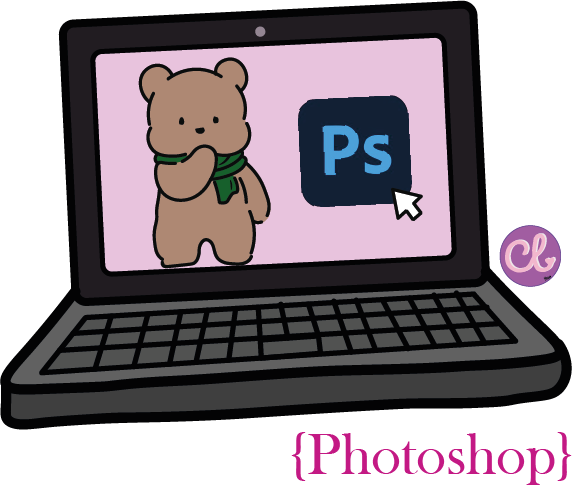
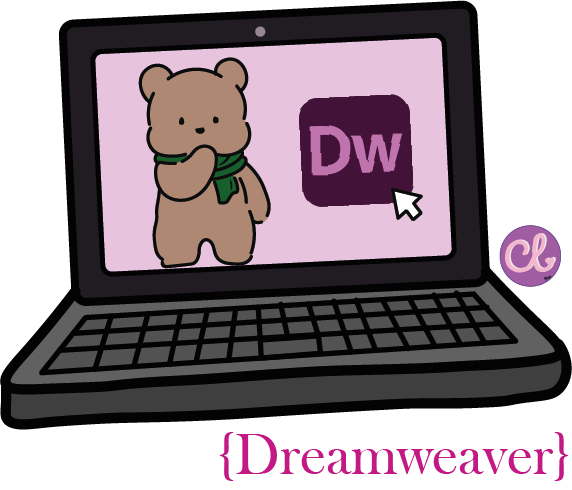
Add files via upload

diff --git a/7. Página personal-Habilidades (Dreamweaver).html b/7. Página personal-Habilidades (Dreamweaver).html
@@ -1,0 +1,284 @@
+<!doctype html>
+<html>
+<head>
+<meta charset="utf-8">
+<title>7. Página personal-Habilidades (Dreamweaver)</title>
+<style type="text/css">
+body {
+    background-image: url(Fondo.png);
+    text-align: center;
+}
+</style>
+<script type="text/javascript">
+function MM_swapImgRestore() { //v3.0
+  var i,x,a=document.MM_sr; for(i=0;a&&i<a.length&&(x=a[i])&&x.oSrc;i++) x.src=x.oSrc;
+}
+function MM_preloadImages() { //v3.0
+  var d=document; if(d.images){ if(!d.MM_p) d.MM_p=new Array();
+    var i,j=d.MM_p.length,a=MM_preloadImages.arguments; for(i=0; i<a.length; i++)
+    if (a[i].indexOf("#")!=0){ d.MM_p[j]=new Image; d.MM_p[j++].src=a[i];}}
+}
+
+function MM_findObj(n, d) { //v4.01
+  var p,i,x;  if(!d) d=document; if((p=n.indexOf("?"))>0&&parent.frames.length) {
+    d=parent.frames[n.substring(p+1)].document; n=n.substring(0,p);}
+  if(!(x=d[n])&&d.all) x=d.all[n]; for (i=0;!x&&i<d.forms.length;i++) x=d.forms[i][n];
+  for(i=0;!x&&d.layers&&i<d.layers.length;i++) x=MM_findObj(n,d.layers[i].document);
+  if(!x && d.getElementById) x=d.getElementById(n); return x;
+}
+
+function MM_swapImage() { //v3.0
+  var i,j=0,x,a=MM_swapImage.arguments; document.MM_sr=new Array; for(i=0;i<(a.length-2);i+=3)
+   if ((x=MM_findObj(a[i]))!=null){document.MM_sr[j++]=x; if(!x.oSrc) x.oSrc=x.src; x.src=a[i+2];}
+}
+</script>
+</head>
+
+<body onLoad="MM_preloadImages('Atrás_2.png')">
+<p>&nbsp;</p>
+<p><img src="Título.png" width="423" height="364" alt=""/></p>
+<p>&nbsp;</p>
+<p>&nbsp;</p>
+<h4>Adobe Dreamweaver es una aplicación de software que permite crear sitios web de forma eficiente, utilizando tanto un entorno visual como la edición de código.</h4>
+<p>&nbsp;</p>
+<p>&nbsp;</p>
+<table width="200" border="1">
+  <tbody>
+    <tr>
+      <td>&nbsp;</td>
+      <td>&nbsp;</td>
+      <td>&nbsp;</td>
+      <td>&nbsp;</td>
+      <td>&nbsp;</td>
+      <td style="text-align: center"><video width="694" height="524" controls="controls" >
+        <source src="Página de cine.mp4" type="video/mp4">
+      </video></td>
+      <td style="text-align: center"><video width="694" height="524" controls="controls" >
+        <source src="Página de artista.mp4" type="video/mp4">
+      </video></td>
+      <td>&nbsp;</td>
+      <td>&nbsp;</td>
+      <td>&nbsp;</td>
+      <td>&nbsp;</td>
+      <td>&nbsp;</td>
+    </tr>
+    <tr>
+      <td>&nbsp;</td>
+      <td>&nbsp;</td>
+      <td>&nbsp;</td>
+      <td>&nbsp;</td>
+      <td>&nbsp;</td>
+      <td style="text-align: center"><p>Página de un cine</p>
+      <p>Creación y diseño de la página de un cine, desde logo, nombre, presentación, cartelera, dulceria y redes sociales, usando imágenes, botones y tablas.</p></td>
+      <td style="text-align: center"><p>Página de un artista</p>
+      <p>Creación y diseño de una página sobre el grupo de K-Pop &quot;Astro&quot;, desde portada, índice, presentación, trayectoria músical, galería de imágenes, tienda, redes sociales y recomendación de otras páginas, usando imágenes, botones, tablas, audios y vídeos.</p></td>
+      <td>&nbsp;</td>
+      <td>&nbsp;</td>
+      <td>&nbsp;</td>
+      <td>&nbsp;</td>
+      <td>&nbsp;</td>
+    </tr>
+  </tbody>
+</table>
+<p>&nbsp;</p>
+<table width="200" border="1">
+  <tbody>
+    <tr>
+      <td>&nbsp;</td>
+      <td>&nbsp;</td>
+      <td>&nbsp;</td>
+      <td>&nbsp;</td>
+      <td>&nbsp;</td>
+      <td>&nbsp;</td>
+      <td>&nbsp;</td>
+      <td>&nbsp;</td>
+      <td>&nbsp;</td>
+      <td>&nbsp;</td>
+      <td>&nbsp;</td>
+      <td>&nbsp;</td>
+      <td>&nbsp;</td>
+      <td>&nbsp;</td>
+      <td>&nbsp;</td>
+      <td>&nbsp;</td>
+      <td>&nbsp;</td>
+      <td>&nbsp;</td>
+      <td>&nbsp;</td>
+      <td>&nbsp;</td>
+      <td>&nbsp;</td>
+      <td>&nbsp;</td>
+      <td>&nbsp;</td>
+      <td>&nbsp;</td>
+      <td>&nbsp;</td>
+      <td>&nbsp;</td>
+      <td>&nbsp;</td>
+      <td>&nbsp;</td>
+      <td>&nbsp;</td>
+      <td>&nbsp;</td>
+      <td>&nbsp;</td>
+      <td>&nbsp;</td>
+      <td>&nbsp;</td>
+      <td>&nbsp;</td>
+      <td>&nbsp;</td>
+      <td>&nbsp;</td>
+      <td>&nbsp;</td>
+      <td>&nbsp;</td>
+      <td>&nbsp;</td>
+      <td>&nbsp;</td>
+      <td>&nbsp;</td>
+      <td>&nbsp;</td>
+      <td>&nbsp;</td>
+      <td>&nbsp;</td>
+      <td>&nbsp;</td>
+      <td><video width="694" height="524" controls="controls" >
+        <source src="Página de museo.mp4" type="video/mp4">
+      </video></td>
+      <td>&nbsp;</td>
+      <td>&nbsp;</td>
+      <td>&nbsp;</td>
+      <td>&nbsp;</td>
+      <td>&nbsp;</td>
+      <td>&nbsp;</td>
+      <td>&nbsp;</td>
+      <td>&nbsp;</td>
+      <td>&nbsp;</td>
+      <td>&nbsp;</td>
+      <td>&nbsp;</td>
+      <td>&nbsp;</td>
+      <td>&nbsp;</td>
+      <td>&nbsp;</td>
+      <td>&nbsp;</td>
+      <td>&nbsp;</td>
+      <td>&nbsp;</td>
+      <td>&nbsp;</td>
+      <td>&nbsp;</td>
+      <td>&nbsp;</td>
+      <td>&nbsp;</td>
+      <td>&nbsp;</td>
+      <td>&nbsp;</td>
+      <td>&nbsp;</td>
+      <td>&nbsp;</td>
+      <td>&nbsp;</td>
+      <td>&nbsp;</td>
+      <td>&nbsp;</td>
+      <td>&nbsp;</td>
+      <td>&nbsp;</td>
+      <td>&nbsp;</td>
+      <td>&nbsp;</td>
+      <td>&nbsp;</td>
+      <td>&nbsp;</td>
+      <td>&nbsp;</td>
+      <td>&nbsp;</td>
+      <td>&nbsp;</td>
+      <td>&nbsp;</td>
+      <td>&nbsp;</td>
+      <td>&nbsp;</td>
+      <td>&nbsp;</td>
+      <td>&nbsp;</td>
+    </tr>
+    <tr>
+      <td>&nbsp;</td>
+      <td>&nbsp;</td>
+      <td>&nbsp;</td>
+      <td>&nbsp;</td>
+      <td>&nbsp;</td>
+      <td>&nbsp;</td>
+      <td>&nbsp;</td>
+      <td>&nbsp;</td>
+      <td>&nbsp;</td>
+      <td>&nbsp;</td>
+      <td>&nbsp;</td>
+      <td>&nbsp;</td>
+      <td>&nbsp;</td>
+      <td>&nbsp;</td>
+      <td>&nbsp;</td>
+      <td>&nbsp;</td>
+      <td>&nbsp;</td>
+      <td>&nbsp;</td>
+      <td>&nbsp;</td>
+      <td>&nbsp;</td>
+      <td>&nbsp;</td>
+      <td>&nbsp;</td>
+      <td>&nbsp;</td>
+      <td>&nbsp;</td>
+      <td>&nbsp;</td>
+      <td>&nbsp;</td>
+      <td>&nbsp;</td>
+      <td>&nbsp;</td>
+      <td>&nbsp;</td>
+      <td>&nbsp;</td>
+      <td>&nbsp;</td>
+      <td>&nbsp;</td>
+      <td>&nbsp;</td>
+      <td>&nbsp;</td>
+      <td>&nbsp;</td>
+      <td>&nbsp;</td>
+      <td>&nbsp;</td>
+      <td>&nbsp;</td>
+      <td style="text-align: center">&nbsp;</td>
+      <td style="text-align: center">&nbsp;</td>
+      <td style="text-align: center">&nbsp;</td>
+      <td style="text-align: center">&nbsp;</td>
+      <td style="text-align: center">&nbsp;</td>
+      <td style="text-align: center">&nbsp;</td>
+      <td style="text-align: center">&nbsp;</td>
+      <td style="text-align: center"><p>Página de un museo</p>
+      <p>Creación y diseño de la página del museo de geología usando imágenes, botones y tablas, además de elementos gráficos hechos por mi.</p></td>
+      <td>&nbsp;</td>
+      <td>&nbsp;</td>
+      <td>&nbsp;</td>
+      <td>&nbsp;</td>
+      <td>&nbsp;</td>
+      <td>&nbsp;</td>
+      <td>&nbsp;</td>
+      <td>&nbsp;</td>
+      <td>&nbsp;</td>
+      <td>&nbsp;</td>
+      <td>&nbsp;</td>
+      <td>&nbsp;</td>
+      <td>&nbsp;</td>
+      <td>&nbsp;</td>
+      <td>&nbsp;</td>
+      <td>&nbsp;</td>
+      <td>&nbsp;</td>
+      <td>&nbsp;</td>
+      <td>&nbsp;</td>
+      <td>&nbsp;</td>
+      <td>&nbsp;</td>
+      <td>&nbsp;</td>
+      <td>&nbsp;</td>
+      <td>&nbsp;</td>
+      <td>&nbsp;</td>
+      <td>&nbsp;</td>
+      <td>&nbsp;</td>
+      <td>&nbsp;</td>
+      <td>&nbsp;</td>
+      <td>&nbsp;</td>
+      <td>&nbsp;</td>
+      <td>&nbsp;</td>
+      <td>&nbsp;</td>
+      <td>&nbsp;</td>
+      <td>&nbsp;</td>
+      <td>&nbsp;</td>
+      <td>&nbsp;</td>
+      <td>&nbsp;</td>
+      <td>&nbsp;</td>
+      <td>&nbsp;</td>
+      <td>&nbsp;</td>
+      <td>&nbsp;</td>
+    </tr>
+  </tbody>
+</table>
+<p>&nbsp;</p>
+<p>&nbsp;</p>
+<p>&nbsp;</p>
+<p>&nbsp;</p>
+<p><a href="../4. Habilidades/4. Página personal-Habilidades.html" onMouseOut="MM_swapImgRestore()" onMouseOver="MM_swapImage('Image2','','Atrás_2.png',1)"><img src="Atrás_1.png" alt="" width="261" height="141" id="Image2" align="right"></a></p>
+<p>&nbsp;</p>
+<p>&nbsp;</p>
+<p>&nbsp;</p>
+<p>&nbsp;</p>
+<p>&nbsp;</p>
+<p>&nbsp;</p>
+<p>&nbsp;</p>
+</body>
+</html>
